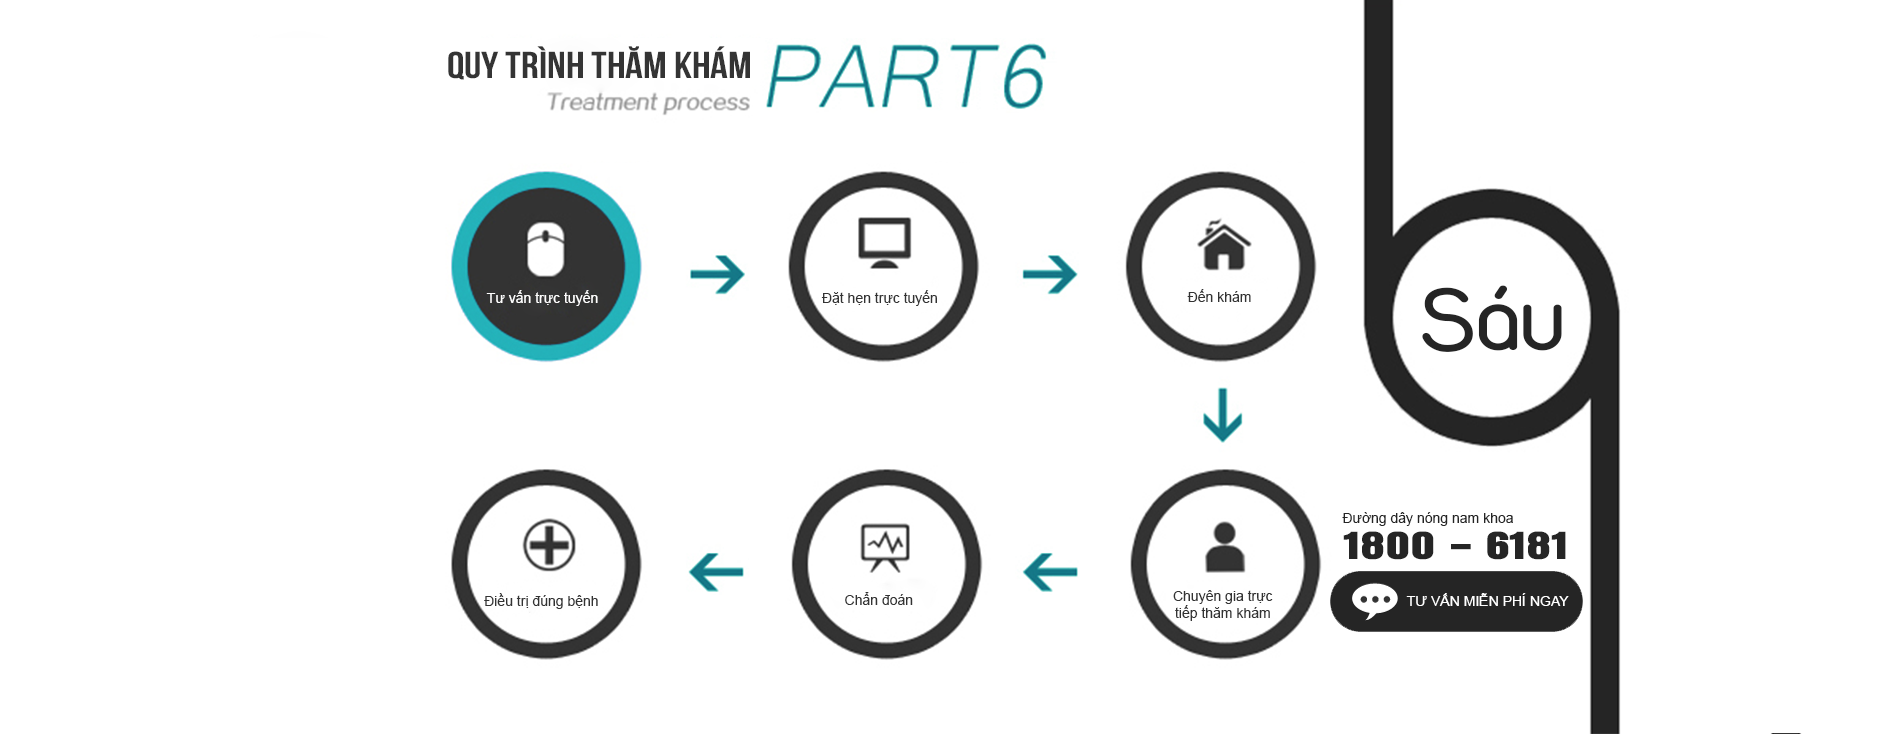
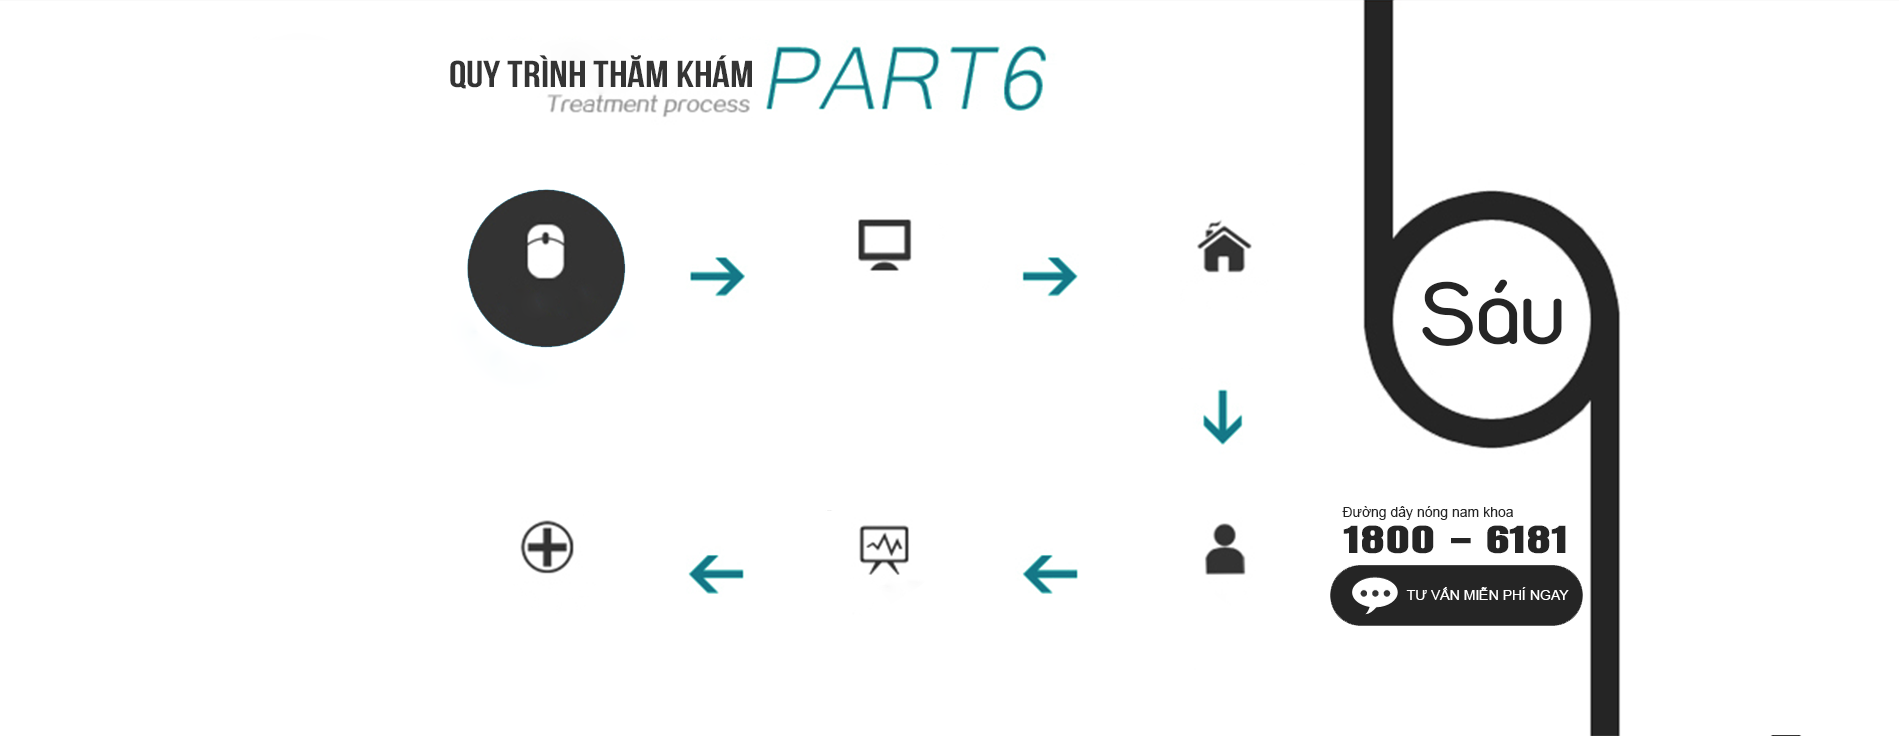
ok

diff --git a/public/css/desktop/desktop-about.css b/public/css/desktop/desktop-about.css
@@ -74,8 +74,40 @@
 	background-position: center;
 	background-repeat: no-repeat;
 	height: 734px;
+	cursor: pointer;
 }
-.about .row7 a{
-	display: block;
-	height: 734px;
+.about .row7 .container{
+	padding-top: 171px;
+	padding-right: 134px;
+}
+.about .row7 .flex{
+	width: 866px;
+}
+.about .row7 .flex:nth-child(2){
+	margin-top: 109px;
+}
+.about .row7 .flex1col1 >div{
+	width: 186px;
+	height: 185px;
+	border-radius: 50%;
+    cursor: pointer;
+    transition-duration: 0.3s;
+    box-shadow: inset 0 0 0 15px #252525, 0 0 1px transparent;
+}
+.about .row7 .flex1col1 >div.hvr-border-fade.mau-xanh{
+	box-shadow: inset 0 0 0 15px #1e93a7, 0 0 1px transparent;
+}
+.about .row7 .flex1col1 >div h3{
+	padding: 116px 40px;
+    font-size: 15px;
+}
+.about .row7 .flex:nth-child(1) .flex1col1:nth-child(1) >div h3{
+	color: #fff;
+}
+.about .row7 .flex1col1 >div.hvr-border-fade:hover, .about .row7 .flex1col1 >div.hvr-border-fade:focus, .about .row7 .flex1col1 >div.hvr-border-fade:active {
+    box-shadow: inset 0 0 0 15px #1e93a7, 0 0 1px transparent;
+  	text-decoration: underline;
+}
+.about .row7 .flex1col1 >div.hvr-border-fade.mau-xanh:hover, .about .row7 .flex1col1 >div.hvr-border-fade.mau-xanh:focus, .about .row7 .flex1col1 >div.hvr-border-fade.mau-xanh:active {
+	box-shadow: inset 0 0 0 15px #252525, 0 0 1px transparent;
 }

diff --git a/resources/views/web/desktop/about.blade.php b/resources/views/web/desktop/about.blade.php
@@ -8,6 +8,7 @@
 <meta id="metaKeywords" name="keywords" content="{{ $setting->web_keyword }}">
 @endsection('keyword')
 @section('css')
+	<link rel="stylesheet" type="text/css" href="{{ asset('public/css/global/hover/css/hover.css') }}">
 	<link rel="stylesheet" href="{{ asset('public/css/desktop/desktop-about.css') }}">
 @endsection('css')
 @section('content')
@@ -68,8 +69,43 @@
 				</p>
 			</div>
 		</div>
-		<div class="row7">
-			<div><a href="http://swt.phongkham193.com/LR/Chatpre.aspx?id=MFI63108226&cid=1489654963660812714370&lng=en"></a></div>
+		<div class="row7"  onclick="open_tuvan()">
+			<div class="container">
+				<div class="flex justify-content-between flex-wrap-wrap align-content-between">
+					<div class="flex1col1">
+						<div class="hvr-border-fade mau-xanh" style="margin-top: 4px;margin-left: 3px;" onclick="open_tuvan()">
+							<h3 class="text-center"><a href="">Tư vấn trực tuyến</a></h3>
+						</div>
+					</div>
+					<div class="flex1col1">
+						<div class="hvr-border-fade" onclick="open_tuvan()">
+							<h3 class="text-center"><a href="">Đặt hẹn trực tuyến</a></h3>
+						</div>
+					</div>
+					<div class="flex1col1">
+						<div class="hvr-border-fade">
+							<h3 class="text-center"><a href="">Đến khám</a></h3>
+						</div>
+					</div>
+				</div>
+				<div class="flex justify-content-between flex-wrap-wrap align-content-between">
+					<div class="flex1col1">
+						<div class="hvr-border-fade" onclick="open_tuvan()">
+							<h3 class="text-center"><a href="">Điều trị đúng bệnh</a></h3>
+						</div>
+					</div>
+					<div class="flex1col1">
+						<div class="hvr-border-fade" onclick="open_tuvan()">
+							<h3 class="text-center"><a href="">Chuẩn đoán</a></h3>
+						</div>
+					</div>
+					<div class="flex1col1">
+						<div class="hvr-border-fade" onclick="open_tuvan()">
+							<h3 class="text-center"><a href="">Chuyên gia trực tiếp tham khám</a></h3>
+						</div>
+					</div>
+				</div>
+			</div>
 		</div>
 	</main>
 @endsection('content')
